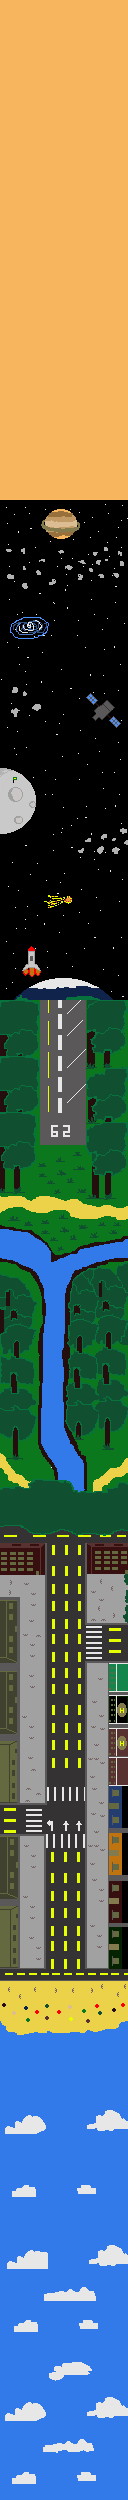
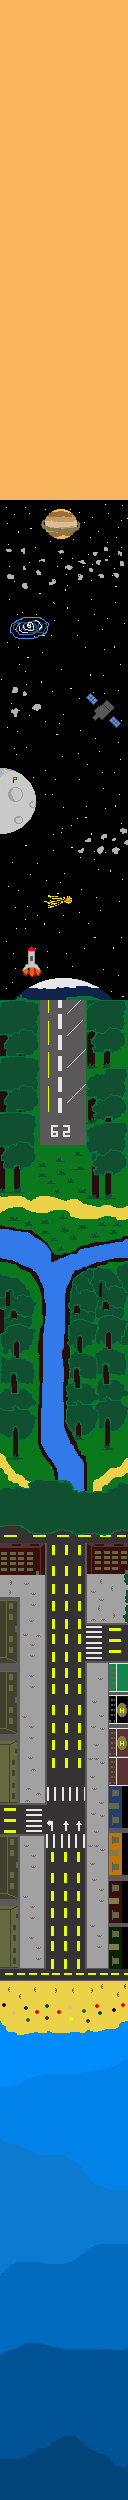
adicionada animações da nuvem

Changed region(s): [[0.0, 0.8112, 1.0, 1.0]]

diff --git a/modulos/janelas/Janelas.py b/modulos/janelas/Janelas.py
@@ -3,6 +3,7 @@ import random
 from configurações.Config import *
 from modulos.personagens.Alien import Alien
 from modulos.personagens.Player import Player
+from .Animação import Animação
 
 #criação do sprite do jogador e inimigos
 #trocar isso pra uma condicional antes da fase 1 e dps da seleceção de modelo
@@ -12,6 +13,7 @@ from modulos.personagens.Player import Player
 class Janelas:
     def __init__(self)->None:
         #atributos para acompanhamento dos eventos
+        self.animações = pygame.sprite.Group()
         self.ciclo = 0
         self.janela_atual = 0 #definir metodo para setar e pegar essa variavel no game.py. a partir dela verificar quais 
                                 #controles funcionam em cada janela, definindo a função de cada em cada caso
@@ -311,10 +313,14 @@ class Janelas:
                     self.scroll += 1
                 else:
                     self.scroll = 0
+                
                 # Calcular áreas dinâmicas
                 
                 info_width = screen.get_width()//6
                 cenario_width = screen.get_width() - 2 * info_width
+                
+                if len(self.animações) < random.randint(2, 3) and self.ciclo%3==0:
+                    self.animações.add(Animação((random.randint(info_width + 50, info_width + cenario_width - 50), -30), random.randint(0, 3)))
 
                 self.background.clear()
                 self.background.append(pygame.image.load("imagens/cenário/Cenarios.png").subsurface((0, 2500 - 128 - self.scroll), (128, 128)).convert_alpha())
@@ -341,6 +347,8 @@ class Janelas:
                 if len(aliens) < random.randint(2,3) and pygame.time.get_ticks()%50 > 45:
                     aliens.add(Alien((random.randint(150,screen.get_width()-150),-30), random.randint(0,3)))
 
+                self.animações.draw(screen)
+                self.animações.update()
                 players.draw(screen)
                 players.update(aliens)
                 aliens.draw(screen)

diff --git a/modulos/janelas/Animação.py b/modulos/janelas/Animação.py
@@ -5,6 +5,8 @@ import random
 
 class Animação(pygame.sprite.Sprite):
   def __init__(self,posição_inicial:tuple,tipo_animação:int)->None:
+    pygame.sprite.Sprite.__init__(self)
+
     #definição da animação e qual animação vai ser gerado(0 pra ufo e 1 pro roxo)
     self.tipo_animação = tipo_animação
     self.index = 0
@@ -13,7 +15,7 @@ class Animação(pygame.sprite.Sprite):
     #for i in range(2):
       #self.img_anim.append(pygame.transform.scale(, (64*2,64*2)))
 
-    self.image = pygame.image.load('imagens/animaçãos/nuvens').subsurface((64,self.tipo_animação*64),(64,64))
+    self.image = pygame.image.load('imagens/animação/nuvens.png').subsurface((0,self.tipo_animação*64),(64,64))
     self.rect = self.image.get_rect()
     self.rect.midbottom = posição_inicial
 
@@ -40,7 +42,7 @@ class Animação(pygame.sprite.Sprite):
     #self.index += 0.2
     #if self.index >= 2:
      # self.index = 0
-     
+
     self.image = pygame.transform.scale(self.image, self.tamanho_animação())
     self.rect.w, self.rect.h = self.tamanho_animação()
 
